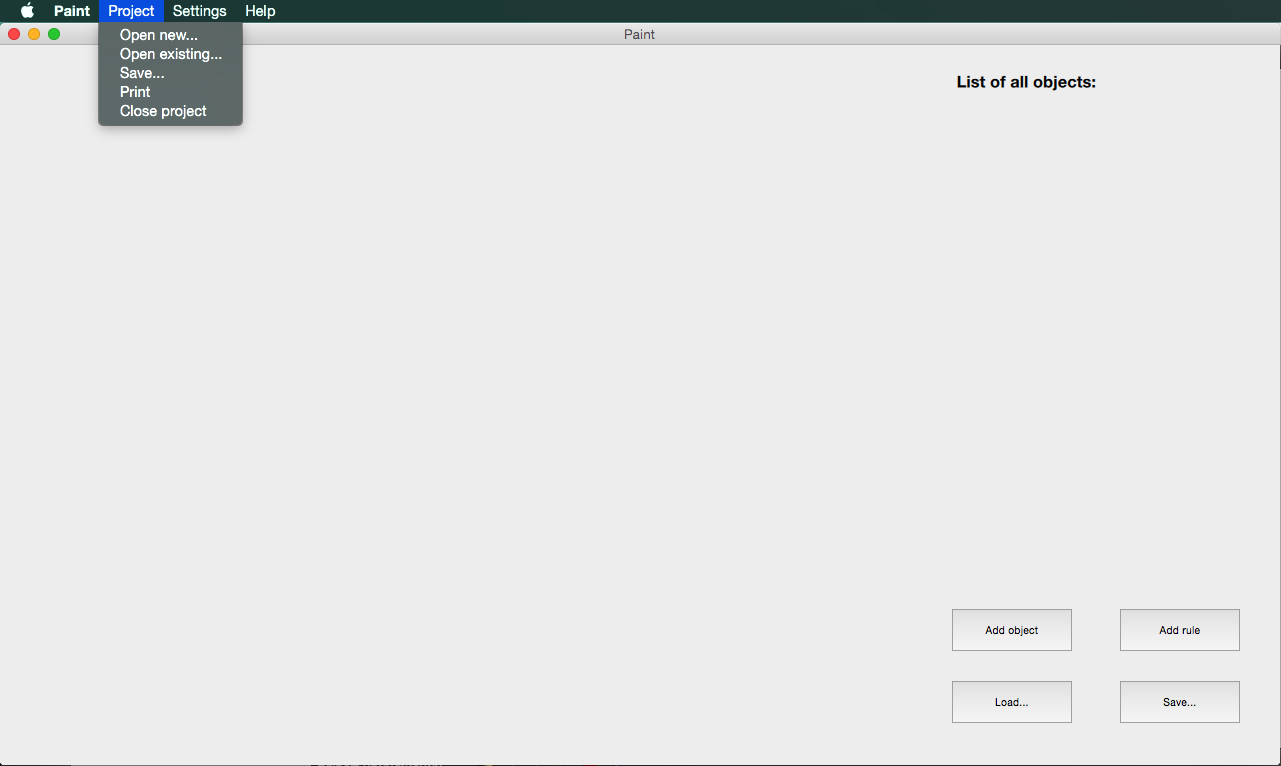
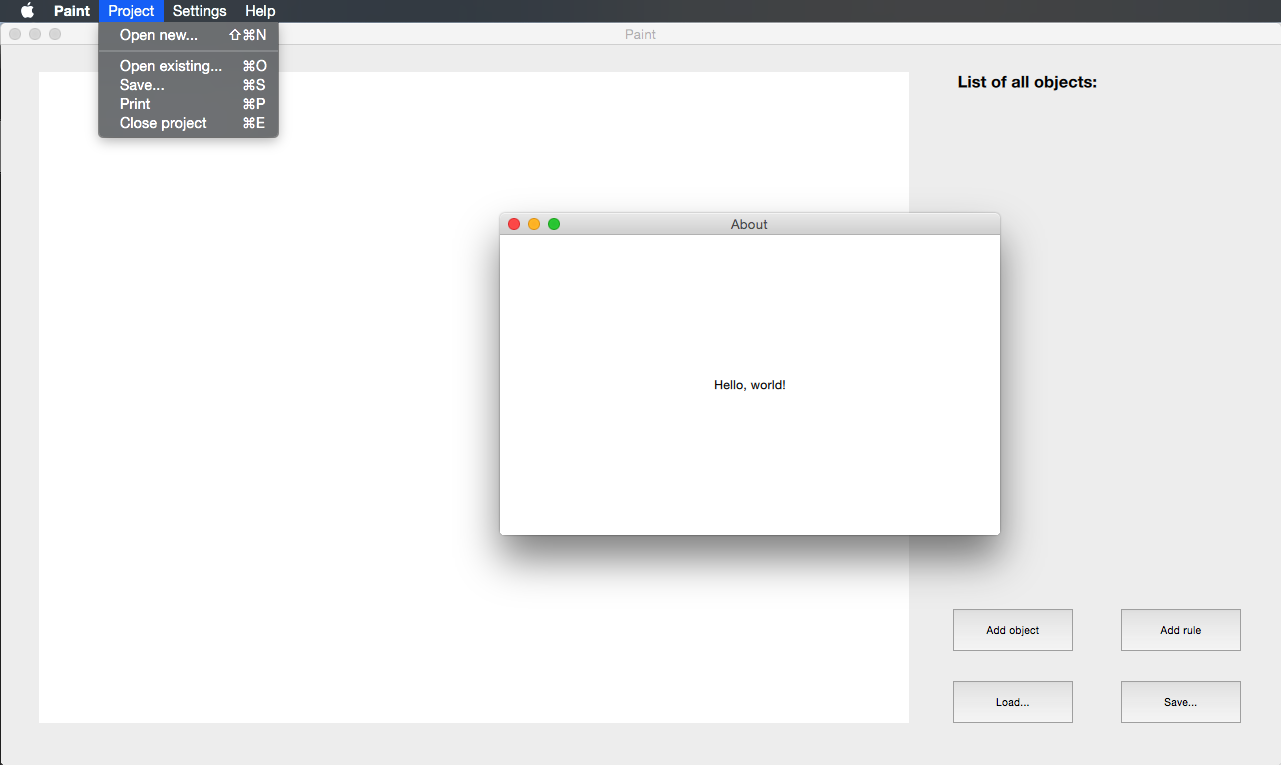
[8]
Added new window «About»

diff --git a/qt/main.qml b/qt/main.qml
@@ -4,8 +4,10 @@ import QtQuick.Controls 1.2
 ApplicationWindow
 {
     visible: true
+
     width: 1280
     height: 720
+
     title: qsTr("Paint")
 
     menuBar: MenuBar
@@ -16,26 +18,32 @@ ApplicationWindow
             MenuItem
             {
                 text: qsTr("&Open new...")
+                shortcut: "Ctrl+Shift+N"
                 onTriggered: console.log("Open action triggered");
             }
+            MenuSeparator {}
             MenuItem
             {
                 text: qsTr("&Open existing...")
+                shortcut: "Ctrl+O"
                 onTriggered: console.log("Open action triggered");
             }
             MenuItem
             {
                 text: qsTr("&Save...")
+                shortcut: "Ctrl+S"
                 onTriggered: console.log("Save action triggered");
             }
             MenuItem
             {
                 text: qsTr("&Print")
+                shortcut: "Ctrl+P"
                 onTriggered: console.log("Print action triggered");
             }
             MenuItem
             {
                 text: qsTr("Close project")
+                shortcut: "Ctrl+E"
                 onTriggered: console.log("Close action triggered");
             }
         }
@@ -46,10 +54,12 @@ ApplicationWindow
             MenuItem
             {
                 text: qsTr("&Change language")
+                shortcut: "Alt+L"
             }
             MenuItem
             {
                 text: qsTr("&Change GUI")
+                shortcut: "Alt+G"
             }
         }
 
@@ -70,11 +80,11 @@ ApplicationWindow
 Item
 {
     id: workspace
-    x: 38
-    y: 27
-    width: 870
-    height: 651
-    }
+    x: -291
+    y: -369
+    width: 1616
+    height: 1344
+}
 
     ToolButton
     {
@@ -84,7 +94,7 @@ Item
         width: 120
         height: 42
         text: "Add object"
-        scale: 1
+        activeFocusOnPress: true
     }
 
     ToolButton
@@ -95,6 +105,7 @@ Item
         width: 120
         height: 42
         text: "Load..."
+        activeFocusOnPress: true
     }
 
     ToolButton
@@ -105,6 +116,7 @@ Item
         width: 120
         height: 42
         text: "Add rule"
+        activeFocusOnPress: true
     }
 
     ToolButton
@@ -115,6 +127,7 @@ Item
         width: 120
         height: 42
         text: "Save..."
+        activeFocusOnPress: true
     }
 
     Text {
@@ -123,11 +136,21 @@ Item
         y: 27
         width: 288
         height: 506
-        text: qsTr(" List of all objects:")
+        text: " List of all objects:"
+        enabled: true
         font.bold: true
         horizontalAlignment: Text.AlignLeft
         wrapMode: Text.NoWrap
         textFormat: Text.PlainText
         font.pixelSize: 16
+    }
+
+    Rectangle {
+        id: rectangle1
+        x: 38
+        y: 27
+        width: 870
+        height: 651
+        color: "#ffffff"
     }
 }

diff --git a/qt/About.qml b/qt/About.qml
@@ -1,0 +1,31 @@
+import QtQuick 2.3
+import QtQuick.Controls 1.2
+
+ApplicationWindow
+{
+    id: about
+    title: qsTr("About")
+
+    visible: true
+
+    Rectangle
+    {
+        x: 0
+        y: 0
+        width: 500
+        height: 300
+
+        Text {
+            id: text1
+            x: 8
+            y: 8
+            width: 484
+            height: 284
+            text: qsTr("Hello, world!")
+            horizontalAlignment: Text.AlignHCenter
+            verticalAlignment: Text.AlignVCenter
+            textFormat: Text.RichText
+            font.pixelSize: 12
+        }
+    }
+}

diff --git a/qt/main.cpp b/qt/main.cpp
@@ -7,6 +7,7 @@ int main(int argc, char *argv[])
 
     QQmlApplicationEngine engine;
     engine.load(QUrl(QStringLiteral("qrc:/main.qml")));
+    engine.load(QUrl(QStringLiteral("qrc:/About.qml")));
 
     return app.exec();
 }
